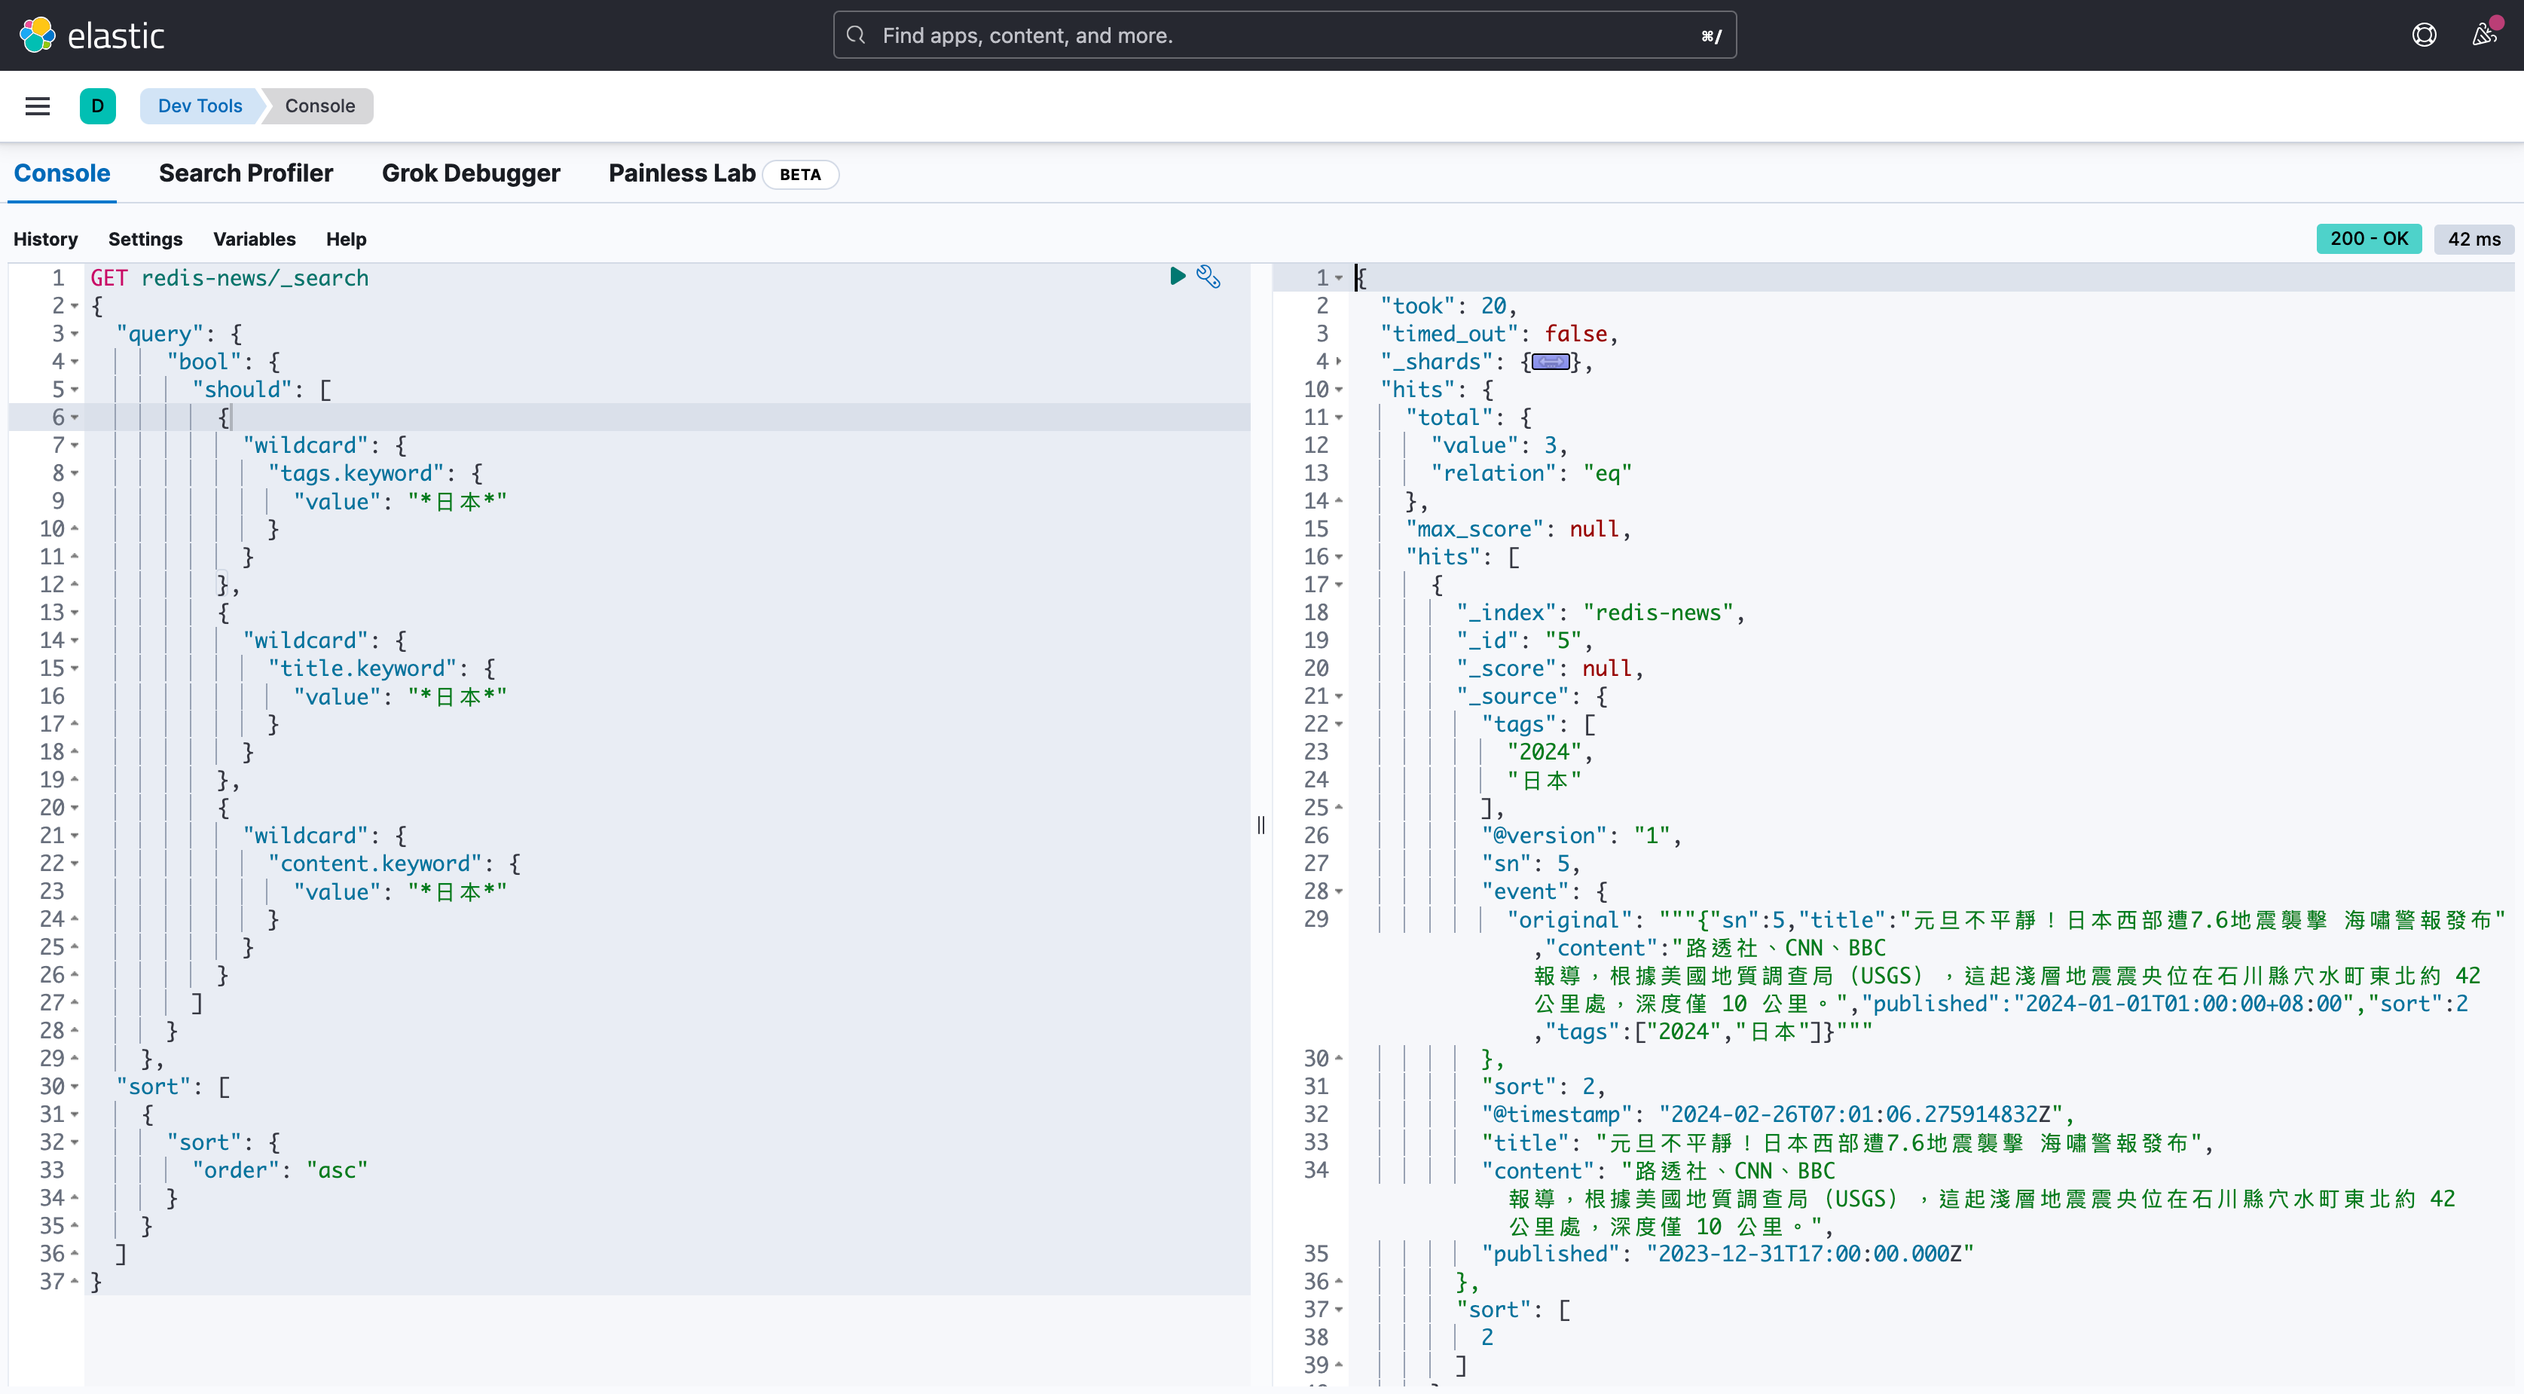
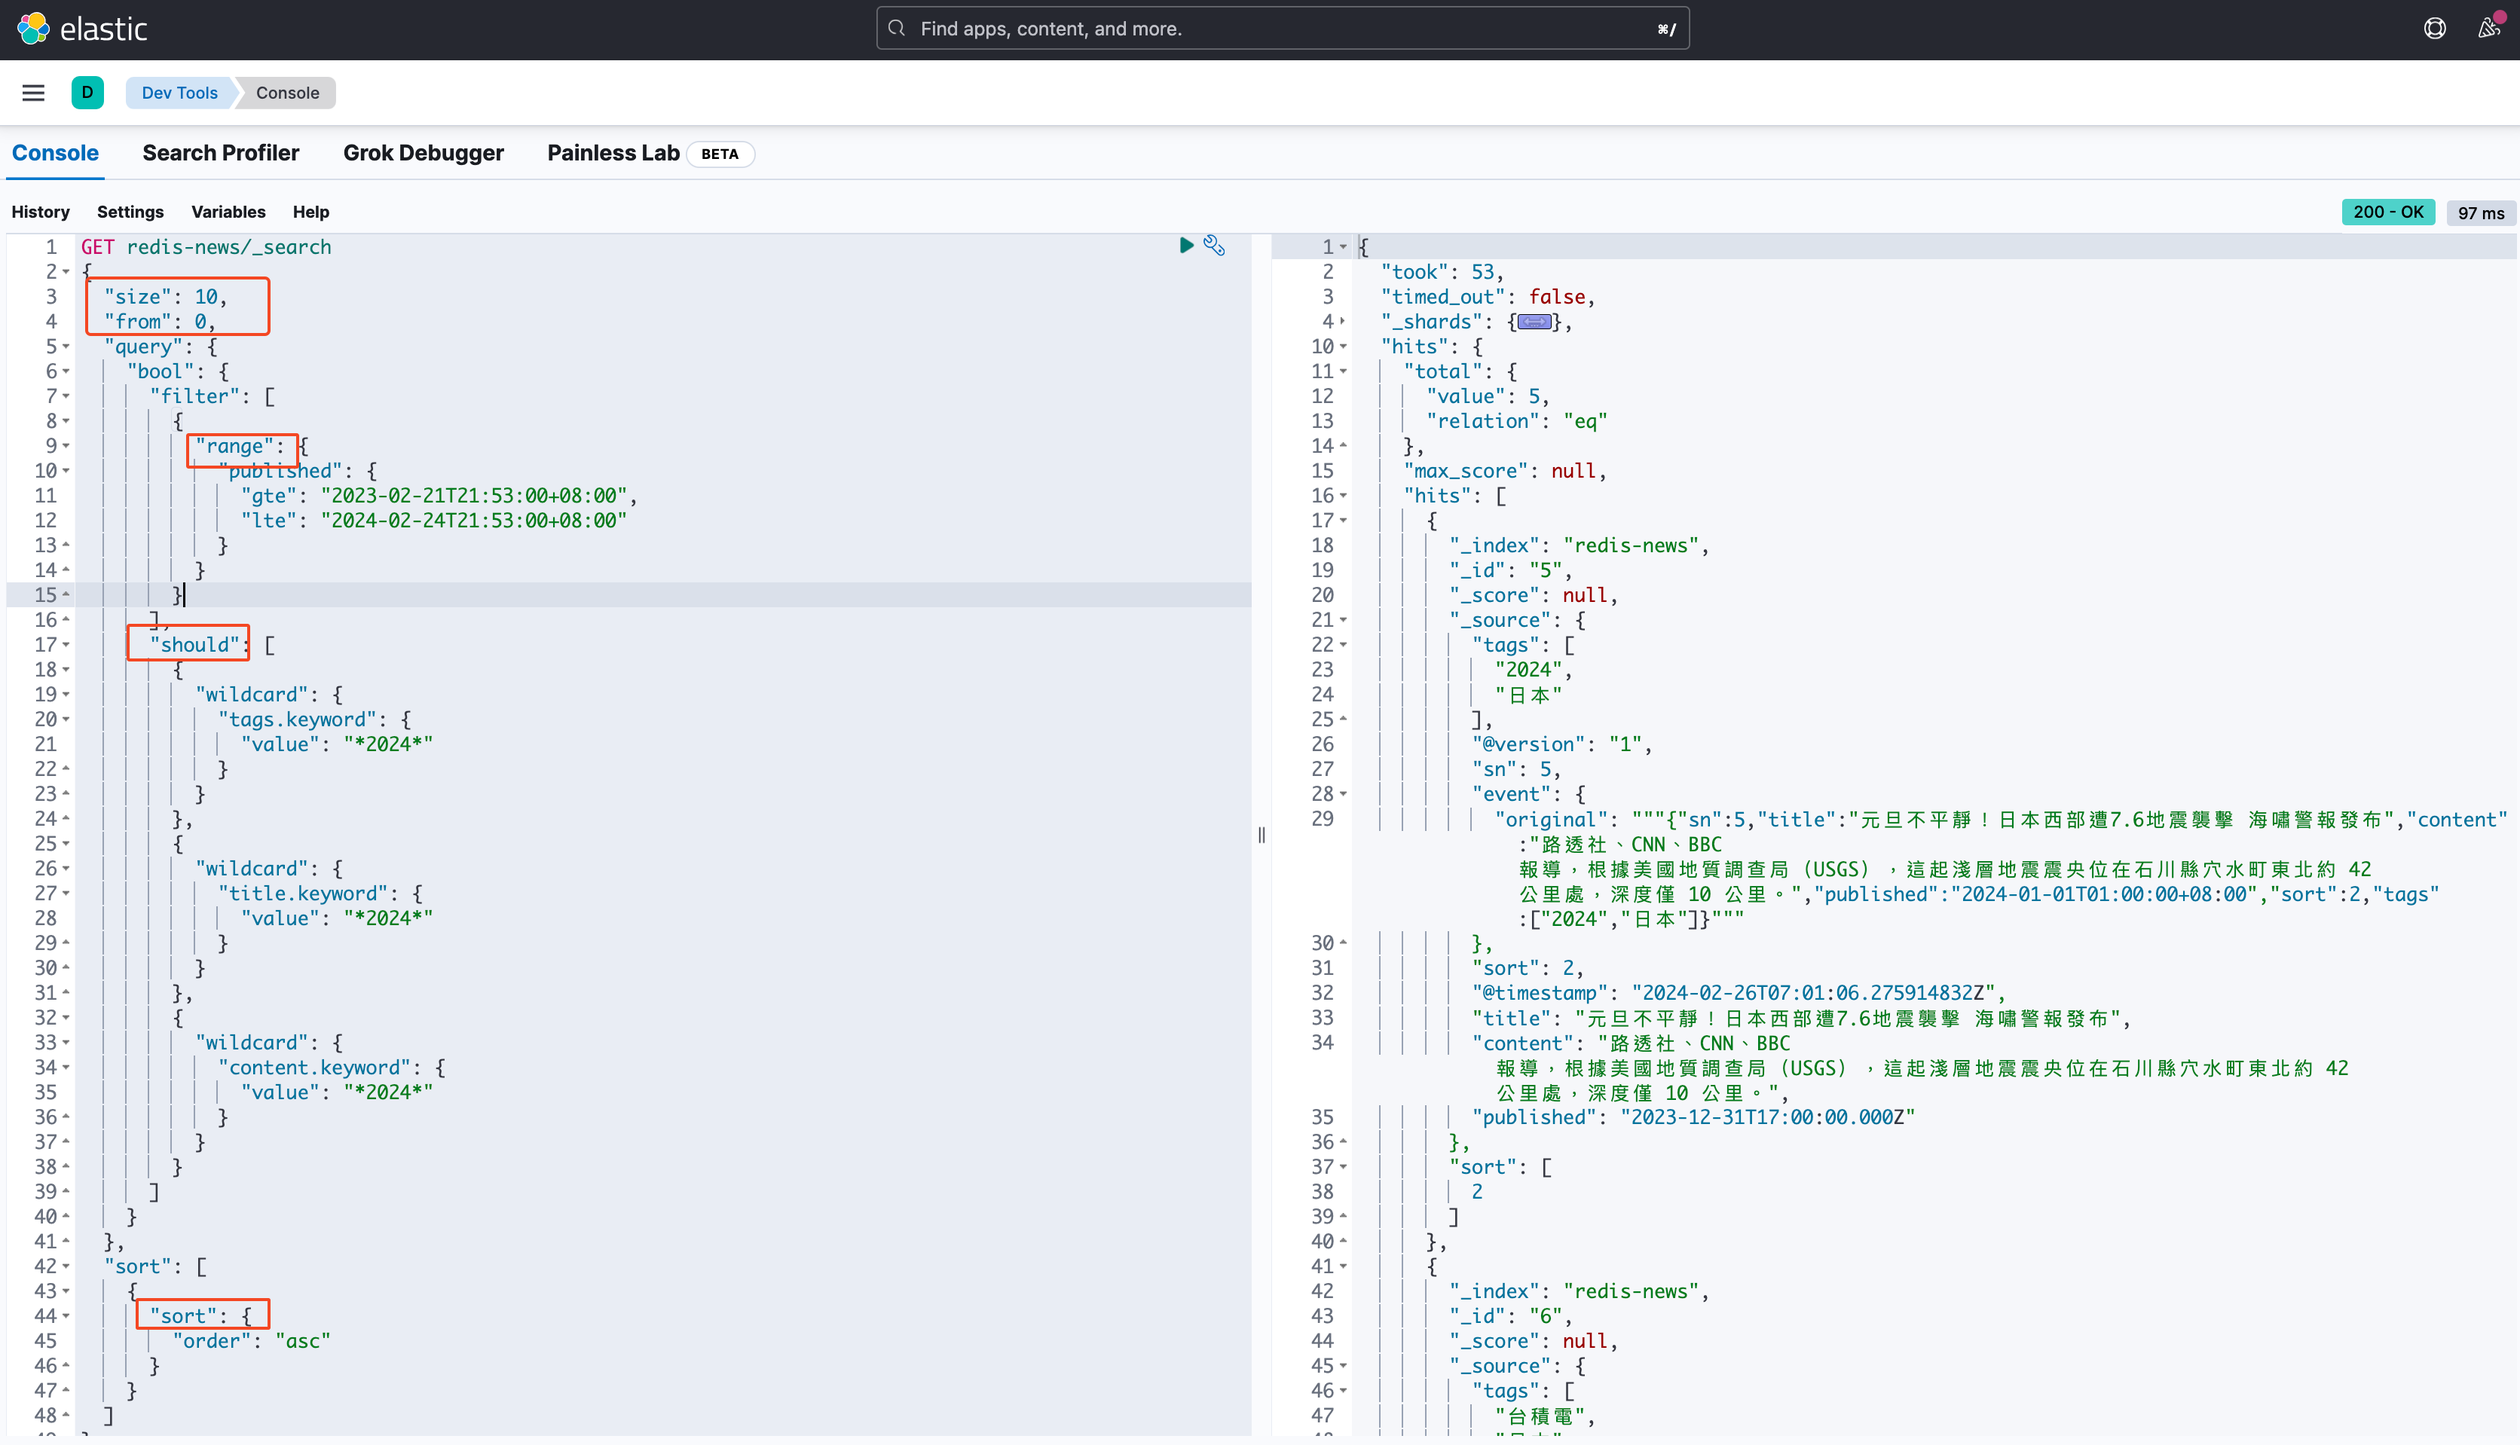
doc

diff --git a/README.md b/README.md
@@ -1,6 +1,11 @@
+## 架構說明
 1. 當api收到request後，把資料儲存到mariadb的同時，也寫入至redis
 2. logstash 監聽 redis，當有新資料存入時，同步寫入elasticsearch
 3. user透過elasticsearch提供的api，輸入查詢條件，得到特地的資料
+
+### 為何使用redis
++ 因為在目前table schema 上無法判斷資料是否有被異動的欄位，所以利用redis來當message queue
++ 效能與正確性會取決於server的規格，如果資料量很大時 (每分鐘超過1萬筆時)，會有data loss 的可能性
 
 ## 1. Install prerequisite
 ### docker
@@ -75,36 +80,54 @@ curl --request DELETE \
 ## 6. "Dev Tools" of kibana
 ![dev-tools.png](images/dev-tools.png)
 
++ `size`: 回傳資料的筆數限制
++ `from`: 回傳資料的起始位置
++ `query.bool.filter[0].range`: 表示時間區間
++ `query.bool.should`: 表示 `or` condition
++ `sort[0].sort`: 表示以 `sort` 欄位做排序
+
 ```json
 GET redis-news/_search
 {
+  "size": 10,
+  "from": 0,
   "query": {
-      "bool": {
-        "should": [
-          {
-            "wildcard": {
-              "tags.keyword": {
-                "value": "*日本*"
-              }
-            }
-          },
-          {
-            "wildcard": {
-              "title.keyword": {
-                "value": "*日本*"
-              }
-            }
-          },
-          {
-            "wildcard": {
-              "content.keyword": {
-                "value": "*日本*"
-              }
+    "bool": {
+      "filter": [
+        {
+          "range": {
+            "published": {
+              "gte": "2023-02-21T21:53:00+08:00",
+              "lte": "2024-02-24T21:53:00+08:00"
             }
           }
-        ]
-      }
-    },
+        }
+      ],
+      "should": [
+        {
+          "wildcard": {
+            "tags.keyword": {
+              "value": "*2024*"
+            }
+          }
+        },
+        {
+          "wildcard": {
+            "title.keyword": {
+              "value": "*2024*"
+            }
+          }
+        },
+        {
+          "wildcard": {
+            "content.keyword": {
+              "value": "*2024*"
+            }
+          }
+        }
+      ]
+    }
+  },
   "sort": [
     {
       "sort": {
@@ -122,33 +145,45 @@ curl --request GET \
   --url http://localhost:9200/redis-news/_search \
   --header 'Content-Type: application/json' \
   --data '{
+  "size": 10,
+  "from": 0,
   "query": {
-      "bool": {
-        "should": [
-          {
-            "wildcard": {
-              "tags.keyword": {
-                "value": "*日本*"
-              }
-            }
-          },
-          {
-            "wildcard": {
-              "title.keyword": {
-                "value": "*日本*"
-              }
-            }
-          },
-          {
-            "wildcard": {
-              "content.keyword": {
-                "value": "*日本*"
-              }
+    "bool": {
+      "filter": [
+        {
+          "range": {
+            "published": {
+              "gte": "2023-02-21T21:53:00+08:00",
+              "lte": "2024-02-24T21:53:00+08:00"
             }
           }
-        ]
-      }
-    },
+        }
+      ],
+      "should": [
+        {
+          "wildcard": {
+            "tags.keyword": {
+              "value": "*2024*"
+            }
+          }
+        },
+        {
+          "wildcard": {
+            "title.keyword": {
+              "value": "*2024*"
+            }
+          }
+        },
+        {
+          "wildcard": {
+            "content.keyword": {
+              "value": "*2024*"
+            }
+          }
+        }
+      ]
+    }
+  },
   "sort": [
     {
       "sort": {
@@ -167,7 +202,7 @@ curl --request GET \
 + `hits.hits[#]._source.sort`: 等級
 + `hits.hits[#]._source.title`: news 標點
 + `hits.hits[#]._source.content`: news 內容
-+ `hits.hits[#]._source.published`: news發布時間
++ `hits.hits[#]._source.published`: news發布時間，資料格式為`yyyy-MM-ddTHH:mm:ss.SSSZ`
 + `hits.hits[#]._source.['@timestamp']`: 資料異動時間
 
 ## 99. example data to redis
